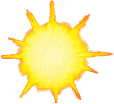
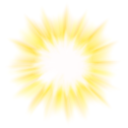
New sprites for grenade smoke and flash.

diff --git a/src/scenes/sandbox_scene.cpp b/src/scenes/sandbox_scene.cpp
@@ -724,7 +724,7 @@ namespace arena
 					if (entityId->m_id == EntityIdentification::GrenadeSmoke)
 					{
 						SpriteRenderer* render = (SpriteRenderer*)entity->first(TYPEOF(SpriteRenderer));
-						render->setColor(color::toABGR(255, 255, 255, (uint8_t)timer->timePassedReverse255() / 2));
+						render->setColor(color::toABGR(255, 255, 255, (uint8_t)timer->timePassedReverse255() / 1.5));
 					}
 
 					if (entityId->m_id == EntityIdentification::Explosion)
@@ -1269,7 +1269,7 @@ namespace arena
 			builder.addIdentifier(EntityIdentification::GrenadeSmoke);
 			// Timer
 			Timer* timer = builder.addTimer();
-			timer->m_lifeTime = 2.0f;
+			timer->m_lifeTime = 3.0f;
 
 			// Drawing stuff
 			Transform* transform = builder.addTransformComponent();
@@ -1308,7 +1308,7 @@ namespace arena
 			// Movement
 			Movement* movement = builder.addMovement();
 			//movement->m_velocity = glm::vec2(float(xOffset)/100.0f, float(yOffset) / 100.0f);
-			movement->m_velocity = glm::vec2(cos(bullet.m_rotation) * 2 + float(xOffset) / 10.0f, sin(bullet.m_rotation) * 2 + float(yOffset) / 10.0f);
+			movement->m_velocity = glm::vec2(cos(bullet.m_rotation) * 2 + float(xOffset) / 20.0f, sin(bullet.m_rotation) * 2 + float(yOffset) / 20.0f);
 			movement->m_rotationSpeed = rotation;
 
 			renderer->anchor();
@@ -1329,8 +1329,9 @@ namespace arena
 			glm::vec2& origin = renderer->getOrigin();
 			origin.x = origin.x + 64; origin.y = origin.y + 64;
 			renderer->setSize(256.f, 256.f);
+			renderer->setRotation(float32(rand() % 7));
 
-			transform->m_position = glm::vec2(bullet.m_position->x - 0.0f, bullet.m_position->y - 0.0f);
+			transform->m_position = glm::vec2(bullet.m_position->x - 0.0f - 32.0f, bullet.m_position->y - 0.0f - 32.0f);
 
 			renderer->anchor();
 			registerEntity(builder.getResults());
